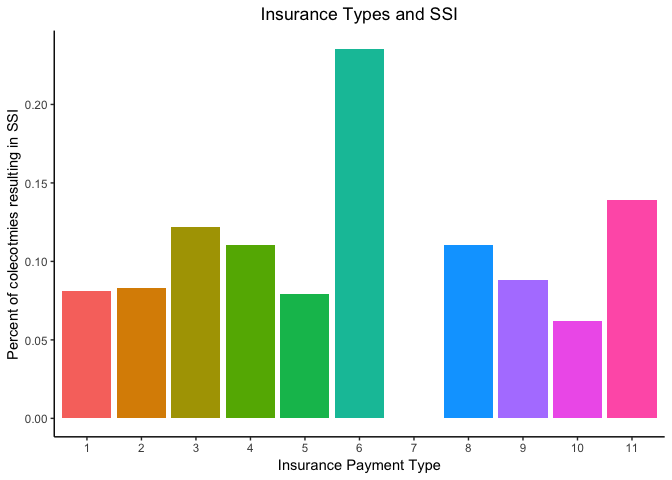
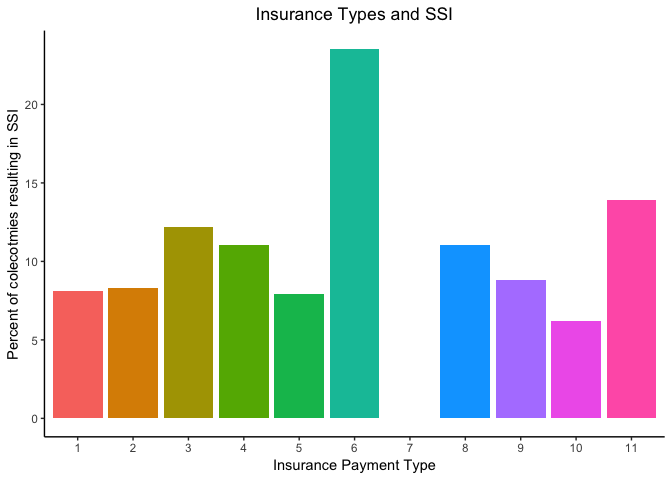
Revised files

diff --git a/report.md b/report.md
@@ -12,7 +12,7 @@ Table of Contents
 -   <a href="#lit">Literature Review</a>
 -   <a href="#sub">Subanalyses</a>
 -   <a href="#regress">Regression Analysis</a>
--   <a href="#conclusion">Conclusion</a>
+-   <a href="#conclusion">Discussion</a>
 -   <a href="#refs">References</a>
 
 ------------------------------------------------------------------------
@@ -32,15 +32,26 @@ Colectomies are surgical procedures that remove all of part of your large intest
 Project Motivation
 ------------------
 
-Given this, we wanted to investigate what factors contributed to increasing or decreasing the risk of post-operative complication. We have a dataset on colectomies performed from 2014 - 2016 from multiple hospitals in Michigan. Each row in the dataset represents a single colectomy and a multitude of other information concerning the surgery and the patient. Using this data, we plan to do a regression analysis to figure out which variables have an impact on affecting post-surgery complication.
+We wanted to investigate what factors contributed to increasing or decreasing the risk of post-operative complication, using a dataset on colectomies performed from 2014 - 2016 from multiple hospitals in Michigan. Using this data, we want to use this data for a regression analysis to figure out which variables have an impact on affecting post-surgery complication.
+
+We were inspired by the analyses done for Homework 6. Until then, our studies have only ever focused on simple linear regression, so being able to wield something to predict a binary outcome was new. With the binary nature of complication, we thought we could apply the same analyses here to good effect.
+
+Initial Questions
+-----------------
+
+First, we needed to figure out if any other answers have been given for this question. If risk factors have already been established, then theoretically they should contribute significantly to a regression. We also needed to figure out what our outcome could be, since complication after a surgery can take many forms.
+
+We ended up deciding to use surgical site infection as our outcome of interest. After some exploring, we found that there was more literature dedicated to this particular outcome compared to another such as mortality. While we knew that making our own logistic regression would have been easy, we were also interested in creating a modelling application for others. It would be interesting to give interested users a subset of the data to create their own models, based on variables that they might find useful or that we may have not considered. This interest motivated us to create a Shiny application dedicated to this process.
 
 <h1 id="characterize">
 Data Characterization
 </h1>
-Before anything else, we need to bring in the data and our toolkit for analyzing the data. In addition to `tidyverse`, we've created a set of helper functions and variables that we've stored in `utils.R` to save coding space. Our data will be stored in the `colectomies` variable.
+Before anything, we need to bring in the data and our toolkit for analyzing the data. In addition to `tidyverse`, we've created a set of helper functions and variables that we've stored in `utils.R` to save coding space. Our data will be stored in the `colectomies` variable. `leaps` and `caret` are used later for our regression analyses.
 
 ``` r
+library(caret)
 library(tidyverse)
+library(leaps)
 library(haven)
 source("./utils.R")
 
@@ -58,9 +69,9 @@ theme_set(theme_classic() +
 colectomies = read_dta(file = './colectomy_raw_new.dta') 
 ```
 
-Before we start our analyses, it's important for us to understand our data in its original form. In its raw form, the data has 10868 rows and 992 columns. Each row in this dataset corresponds to a single colectomy with an incredible amount of information associated with it. The data has already been purged of identifiable personal information, leaving us with a bevy of laboratory, disease, surgery and patient data.
+In its raw form, the data has 10868 rows and 992 columns. Each row corresponds to a single colectomy and an incredible amount of information associated with it, including a bevy of laboratory, disease, surgery and patient data.
 
-That being said, many of the columns are useless for our analysis. Many columns contain mostly or only missing data, denoted by either blank cells or `NA` strings. Before we can start the variable selection for our model, we need to tidy up the dataset.
+A brief glance at the data showed us that many of the columns are useless for our analysis. Many columns contain mostly or only missing data. Before we can start variable selection for our model, we need to tidy up the dataset.
 
 <h1 id="tidying">
 Tidying the Data
@@ -82,15 +93,17 @@ Our function, `is_mostly_intact`, helps us identify columns that are more than 5
 Data Cleaning
 -------------
 
-Many of the columns in the data appear to be numerical, but are in fact, categorical. We've created a function `catfactory` in `utils.R` to contain all the particular details on which variables needed coercing.
-
-In our dataset, the outcome of interest we'll be focusing on is surgical site infection (SSI). We believe that focusing on this aspect of post-operation allows us to narrow down the scope of our analysis, while allowing for the greatest breadth for defining "complication". Surgical site infection (SSI) is actually contained in 3 particular columns (`postop_ssi_super`, `postop_ssi_deep` and `postop_ssi_organspace`) in the dataset, which we'll compile into one summary variable `any_ssi`.
+Many of the columns in the data appear to be numerical, but are in fact, categorical. Our `catfactory` function in `utils.R` contain all of our retyping.
 
 ``` r
 tidy_colectomies = tidy_colectomies %>%
   catfactory(.) %>% 
   mutate(any_ssi = (postop_ssi_super + postop_ssi_deep +    postop_ssi_organspace) >= 1)
 ```
+
+The outcome of interest we'll be focusing on is surgical site infection (SSI). After researching more into colectomies, we found that infection was the most common type of complication. We believe that focusing on this aspect of post-operation allows us to narrow down the scope of our analysis, while allowing for the greatest breadth for defining "complication".
+
+Surgical site infection (SSI) is actually contained in 3 particular columns (`postop_ssi_super`, `postop_ssi_deep` and `postop_ssi_organspace`) in the dataset, which we'll compile into one summary variable `any_ssi`.
 
 Even with all of the data reduction, there are still too many variables to know which to include in the regression. In aid in variable selection, we did a literature review to see what has relationships have been established.
 
@@ -103,14 +116,14 @@ Ko et. al found that certain diseases were associated with increased risk of dea
 
 In another paper, Tang et. al focuses on risk factors associated with surgical site infection, our outcome of interest. Dr. Tang identified ASA score, blood transfusion, drainage use, and sex<sup>[4](https://www.ncbi.nlm.nih.gov/pmc/articles/PMC1422004)</sup>.
 
-With these papers in mind, we know that it would be useful to try to include these in our analyses should these data points appear in the dataset. We selected a few of these variables and others to explore more in our subanalyses below.
+With these papers in mind, we know to include these in our regression analyses. We selected a few of these variables and others to explore more in our subanalyses below.
 
 <h1 id="sub">
 Subanalyses
 </h1>
 ### Is there a relationship between SSI and insurance status?
 
-For this analysis, we wanted to see how SSI was related with insurance staus. We believed that patients with little to no coverage would be forced to go to less experienced hospitals and experience more SSI.
+One variable we thought would have a relationship to SSI was a patient's insurance status. We believed that patients with little to no coverage would be forced to go to less experienced hospitals and experience more SSI. To confirm or deny this belief, we looked at how SSIs were distributed by insurance staus.
 
 ``` r
 insurance_df = tidy_colectomies %>% 
@@ -120,24 +133,24 @@ insurance_df = tidy_colectomies %>%
   group_by(insurance_payment_type) %>% 
   summarize(n = n(),
             total_SSI = sum(any_ssi),
-            percent_SSI = total_SSI / n)
+            percent_SSI = 100 * (total_SSI / n))
 
 knitr::kable(insurance_df)
 ```
 
 | insurance\_payment\_type |     n|  total\_SSI|  percent\_SSI|
 |:-------------------------|-----:|-----------:|-------------:|
-| 1                        |  3007|         244|     0.0811440|
-| 2                        |  2229|         185|     0.0829969|
-| 3                        |   533|          65|     0.1219512|
-| 4                        |   444|          49|     0.1103604|
-| 5                        |  1791|         142|     0.0792853|
-| 6                        |    17|           4|     0.2352941|
-| 7                        |     2|           0|     0.0000000|
-| 8                        |   136|          15|     0.1102941|
-| 9                        |  2252|         198|     0.0879218|
-| 10                       |   372|          23|     0.0618280|
-| 11                       |    72|          10|     0.1388889|
+| 1                        |  3007|         244|      8.114400|
+| 2                        |  2229|         185|      8.299686|
+| 3                        |   533|          65|     12.195122|
+| 4                        |   444|          49|     11.036036|
+| 5                        |  1791|         142|      7.928532|
+| 6                        |    17|           4|     23.529412|
+| 7                        |     2|           0|      0.000000|
+| 8                        |   136|          15|     11.029412|
+| 9                        |  2252|         198|      8.792185|
+| 10                       |   372|          23|      6.182796|
+| 11                       |    72|          10|     13.888889|
 
 We can see in the table that insurance types are not evenly distributed over the data. Thus, we need to compare percentages of colectomies that resulted in SSI instead of raw counts.
 
@@ -174,67 +187,158 @@ In the first table, we can see that the most occurences of SSIs are in patients 
 
 In the second plot, we can see the percentage of SSI occurences out of the total number of colectomies performed based on insurance type. There is generally no distinction between the insurance types, with most of the percentages hovering between 6 to 12 percent. Noticeably, patients with private insurance had a much higher percentage of SSIs at above 25 percent while patients with other insurance had 0 percent. However, this is most likely due to the small sample size of patients with those types of insurance and should not affect our conclusions.
 
-In the end, it seems that there is no relationship between insurance type and occurence of SSIs.
+In the end, our hypotheses was incorrect; there was seemingly no relationship between insurance type and occurence of SSIs. This result indicates it would be a poor candidate for predicting SSI.
 
 ### How are SSI distributed in patients with different diseases and prior conditions? (Tiffany's Analysis)
 
-### How are SSI associated with ASA level?
+The Ko paper names multiple diseases that are associated with increased risk of SSI. Our dataset contains information on many of these diseases, so we wanted to investigate if our data supports any of Ko's findings. We have the following data below that corresponds to the paper:
 
-Tang pointed out that ASA is related to SSI, so we investigate that trend in our data here.
-
-``` r
-asa_analysis = tidy_colectomies %>% 
-  select(any_ssi, asa_class_id, postop_ssi_super, postop_ssi_deep, postop_ssi_organspace) %>% 
-  mutate(ssi_type = ifelse(
-           postop_ssi_super == 1, "Super",
-           ifelse(postop_ssi_deep == 1, "Deep", 
-                  ifelse(postop_ssi_organspace == 1, "OrganSpace", "None")
-         ))) %>%
-  rename(., ASA = asa_class_id) %>% 
-  filter(!is.na(ASA)) %>% 
-  group_by(ASA) %>% 
-  summarize(n = n(), 
-            n_SSIs = sum(any_ssi),
-            percent_SSIs = n_SSIs/n)
-
-knitr::kable(asa_analysis)
-```
-
-| ASA |     n|  n\_SSIs|  percent\_SSIs|
-|:----|-----:|--------:|--------------:|
-| 1   |  7947|      616|      0.0775135|
-| 2   |   297|       33|      0.1111111|
-| 3   |  2341|      246|      0.1050833|
-| 4   |   272|       41|      0.1507353|
+-   Smoker: Tobacco use within 1 year
+-   Etoh: &gt;2 drinks/day two weeks prior to surgery
+-   Body Weight Loss: 10% of body weight loss 6 months prior to surgery
+-   Chf: Congestive Heart Failure within 30 days prior to surgery
+-   Scd : Specific Carbohydrate Diet
+-   Copd: Chronic Obstructive Pulmonary Disease
+-   Dvt: Deep Vein Thrombosis
+-   Chronic Condition: steriods, immunosuppresive meds
+-   Preop-transfusion: RBCs within 72 hours of surgery
+-   Ventilator: ventilator dependent
 
 ``` r
-ggplot(data = asa_analysis, aes(x = ASA, y = n, fill = ASA)) +
-  geom_bar(stat = "identity")
+dist_data = healthdisease %>% 
+  select(-any_ssi, -death_status) %>% 
+  gather(condition, key) %>% 
+  filter(key > 0) %>% 
+  group_by(condition) %>% 
+  summarize(cases = n()) %>% 
+  mutate(condition = reorder(condition, -cases))
+
+ggplot(dist_data, aes(x = condition, y = cases, fill = condition)) +
+  geom_bar(stat = "identity") + 
+  labs(
+    title = "Pre-operative health conditions",
+    x = "Diseases/Conditions",
+    y = "Counts"
+  ) +
+  theme(axis.text.x = element_text(angle = 40, hjust = 1), 
+        legend.position = "none") 
 ```
 
-<img src="report_files/figure-markdown_github/number-asa-ids-1.png" width="90%" />
+<img src="report_files/figure-markdown_github/plotting-disease-1.png" width="90%" />
 
-The majority of cases are class 1, the least severe. The second most common is level 3, indicating that there are generally benign colectomies with a handful that are more serious. Now, we'll look at how SSIs occur as a function of ASA level.
+We can see in the dataset that many of these conditions/diseases are relatively rare in the dataset. This may impact their significance in the regression, but we've established that there are patients with these characteristics.
+
+#### SSI and death association to each health condition
+
+To see how often a condition is related to SSI, we used a heatmap to see if any are particularly associated with SSI. We also looked at death as an outcome to see if any of these diseases are associated with it.
 
 ``` r
-ggplot(data = asa_analysis, aes(x = ASA, y = percent_SSIs, fill = ASA)) +
-  geom_bar(stat = "identity")
+heatplot = healthdisease %>% 
+  mutate(death_status = recode(death_status, `3` = "No death", `1` = "Died intraop", 
+                        `2` = "Died within 30 days postop")) %>%
+  na.omit() %>% 
+  gather(condition, score, -death_status, -any_ssi) %>%
+  gather(key, status, -condition, -score) %>% 
+  select(-key) %>% group_by(status, condition) %>% 
+  summarise(score = sum(score))
+
+ggplot(data = heatplot, aes(x = status, y = condition, fill = score)) + 
+  geom_tile() + 
+  scale_fill_distiller(palette = "RdYlBu") +
+  theme(axis.text.x = element_text(angle = 40, hjust = 1), 
+        legend.position = "none") +
+  labs(
+    title = "Correlation of SSI and death to diseases and conditions",
+    x = "SSI or Death",
+    y = "Disease/Condition"
+  )
 ```
+
+<img src="report_files/figure-markdown_github/givin-the-heat-1.png" width="90%" />
+
+Comparing number of death and SSI cases side by side with each health condition, we see a nearly symmetric heatmap. There are fewer cases under patients that actually got SSI (TRUE/FALSE) or died from the operation, so it is difficult to conclude any direct relationship between health condition and surgery outcome. Intrestingly, we can see that there are a great number of successful cases for patients with sleep apnea, specific carbohydrate diet, and hypertension related ot SSI.
+
+### How is surgical time distributed across the dataset
+
+Tang pointed out that SSI is associated with long surgery times. This makes sense since patients are more likely to get infected the longer they're under the knife. We'll look at the distribution of surgery times in the dataset to see if there's any outliers.
+
+``` r
+tidy_colectomies %>% 
+  select(val_surgtime) %>% 
+  ggplot(data = ., aes(x = val_surgtime)) + 
+  geom_histogram(bins = 100, fill = "red") +
+  labs(
+    title = "Distribution of surgery times in the dataset",
+    x = "Surgery time (minutes)",
+    y = "Frequency"
+  )
+```
+
+<img src="report_files/figure-markdown_github/surg-time-analysis-1.png" width="90%" />
+
+Most of the surgeries last around 250 minutes, but we can see that there is a heavy tail on the right. We've included all cases here, so next we'll split up the colectomies that result in SSI and those that don't and compare their distribution.
+
+``` r
+tidy_colectomies %>% 
+  select(val_surgtime, any_ssi) %>% 
+  ggplot(data = ., aes(x = val_surgtime, fill = any_ssi)) + 
+  geom_density(bins = 100, alpha = 0.5) +
+  labs(
+    title = "Distribution of surgery times in the dataset",
+    x = "Surgery time (minutes)",
+    y = "Frequency"
+  )
+```
+
+    ## Warning: Ignoring unknown parameters: bins
 
 <img src="report_files/figure-markdown_github/ssi-vs-asa-plot-1.png" width="90%" />
 
-We see that there is also an increasing trend in surgical site infections as the ASA severity gets higher. Thus, we've shown that as a colectomy's severity increases, the patient is slightly more likely to get an infection after their surgery.
+Although there are some SSI-related surgeries that look to take longer than non-SSI colectomies, both follow a similar distribution. Thus, we cannot definitively say that the surgery time can help differentiate between SSI cases and non-SSI cases based on the plot.
 
 <h1 id="regress">
 Regression Analysis
 </h1>
+With our literature review and personal exploration of the data, we have a set of variables to use for our logistic regression. With our literature review, we've decided to start with a subset of 20 variables. These candidate variables have been shown to be associated with SSI, so we'll use automatic procedures to further cut down on covariates and get to a more robust, parsimonious model.
+
+``` r
+# Selection of 20 candidate covariates for logistic regression
+model_covariates = tidy_colectomies %>% 
+  select(any_ssi, surgical_approach, had_etoh,
+         had_hypertension, had_diabetes, surgical_wound_closure, 
+         asa_class_id, is_smoker, bmi, age, sex, had_body_weight_loss,
+         had_dvt, had_open_wound, had_pneumonia, had_preop_sepsis,
+         had_preop_transfusion, had_epidural, admit_to_icu_postsurg, 
+         val_surgtime, length_of_stay) %>% 
+  na.omit(.)
+
+just_covariates = model_covariates %>% select(-any_ssi) %>% colnames(.)
+
+# Compactly create the full logistic model
+full_fmla = as.formula(
+  paste("any_ssi ~", paste(c(just_covariates), collapse = "+"))
+)
+
+# Models to help guide the automatic procedures
+null = glm(any_ssi ~ 1, data = model_covariates, family = binomial())
+full = glm(full_fmla, data = model_covariates, family = binomial())
+
+# Stepwise regression to select best subset
+step.model = step(null, direction = 'both', scope = list(upper = full))
+```
+
+The resulting stepwise regression results in a model with 23 covariates, with many of them stemming from categorical factors chosen. Out of these covariates, `length_of_stay`, `surgical_approaches` 2, 3 and 4, age, ASA level 3, admission to ICU, surgery time, and BMI remained statistically significant.
+
 <h1 id="conclusion">
-Conclusion
+Discussion
 </h1>
+We are pleased to see that many of the variables that we found during our literature found themselves in the model and were statistically significant. However, many of the variables that were found to be risk factors in SSI did not end up in the final model or were not statistically significant. Given the large amount of covariates and categorical variables we had to consider, it is highly likely that many elements that would have been included in a more parsimonious model were excluded thanks to the noise introduced by starting with 20 candidates.
+
+Looking at the model coefficients, we can comment on how each factor affects the odds of SSI. High BMI, admission to the ICU, ASA class 3, being a smoker and long surgery times have positive coefficients, meaning that the odds of SSI in patients with these characteristics are higher than those without. Older patients, length of stay and surgical approaches 2 and 3 correspond with negative coefficients, indicating that odds of SSI are reduced in patients with these qualities.
+
+Although far from perfect, our model gives us some insight into what pre-surgical disease/traits contribute to SSI and supports some of the research done on this particular subject. We believe that our results can be improved by starting with more parsimonious models and building the stepwise regression from there.
+
 <h1 id="refs">
 References
 </h1>
-1.  <https://www.medscape.org/viewarticle/711126>
-2.  <https://www.ncbi.nlm.nih.gov/pmc/articles/PMC2852382>
-3.  <https://www.ncbi.nlm.nih.gov/pubmed/27765178>
-4.  <https://www.ncbi.nlm.nih.gov/pmc/articles/PMC1422004>
+Reference 1. Wikipedia: ASA physical status classification system 2. <http://www.webmd.com/digestive-disorders/partial-colectomy-for-diverticular-disease> 3. <http://www.hopkinsmedicine.org/healthlibrary/conditions/surgical_care/surgical_site_infections_134,144/> 4. <https://www.medscape.org/viewarticle/711126> 5. <https://www.ncbi.nlm.nih.gov/pmc/articles/PMC2852382> 6. <https://www.ncbi.nlm.nih.gov/pubmed/27765178> 7. <https://www.ncbi.nlm.nih.gov/pmc/articles/PMC1422004>
